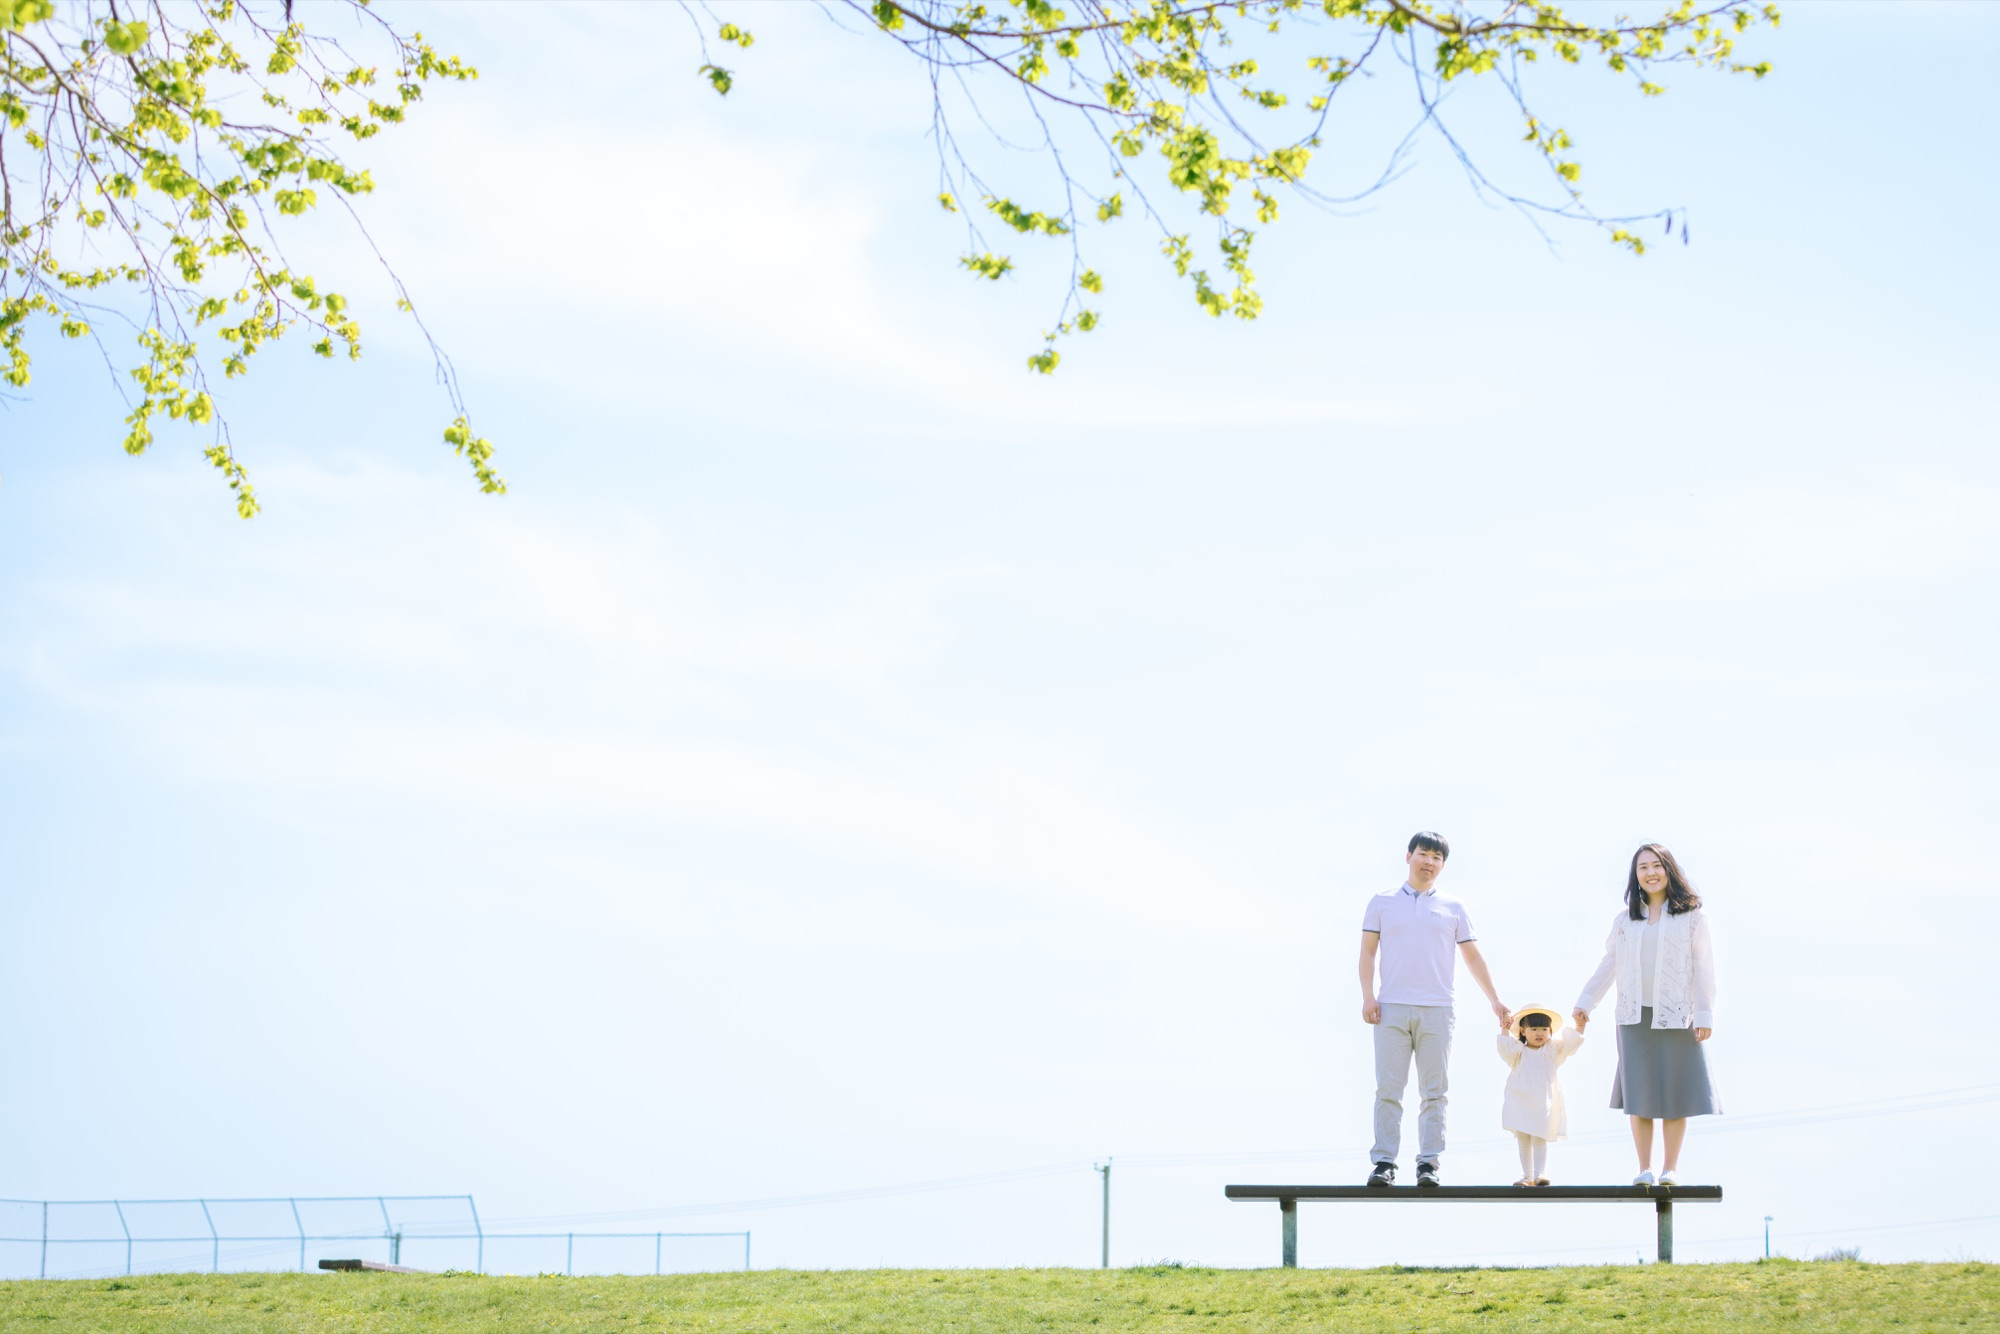
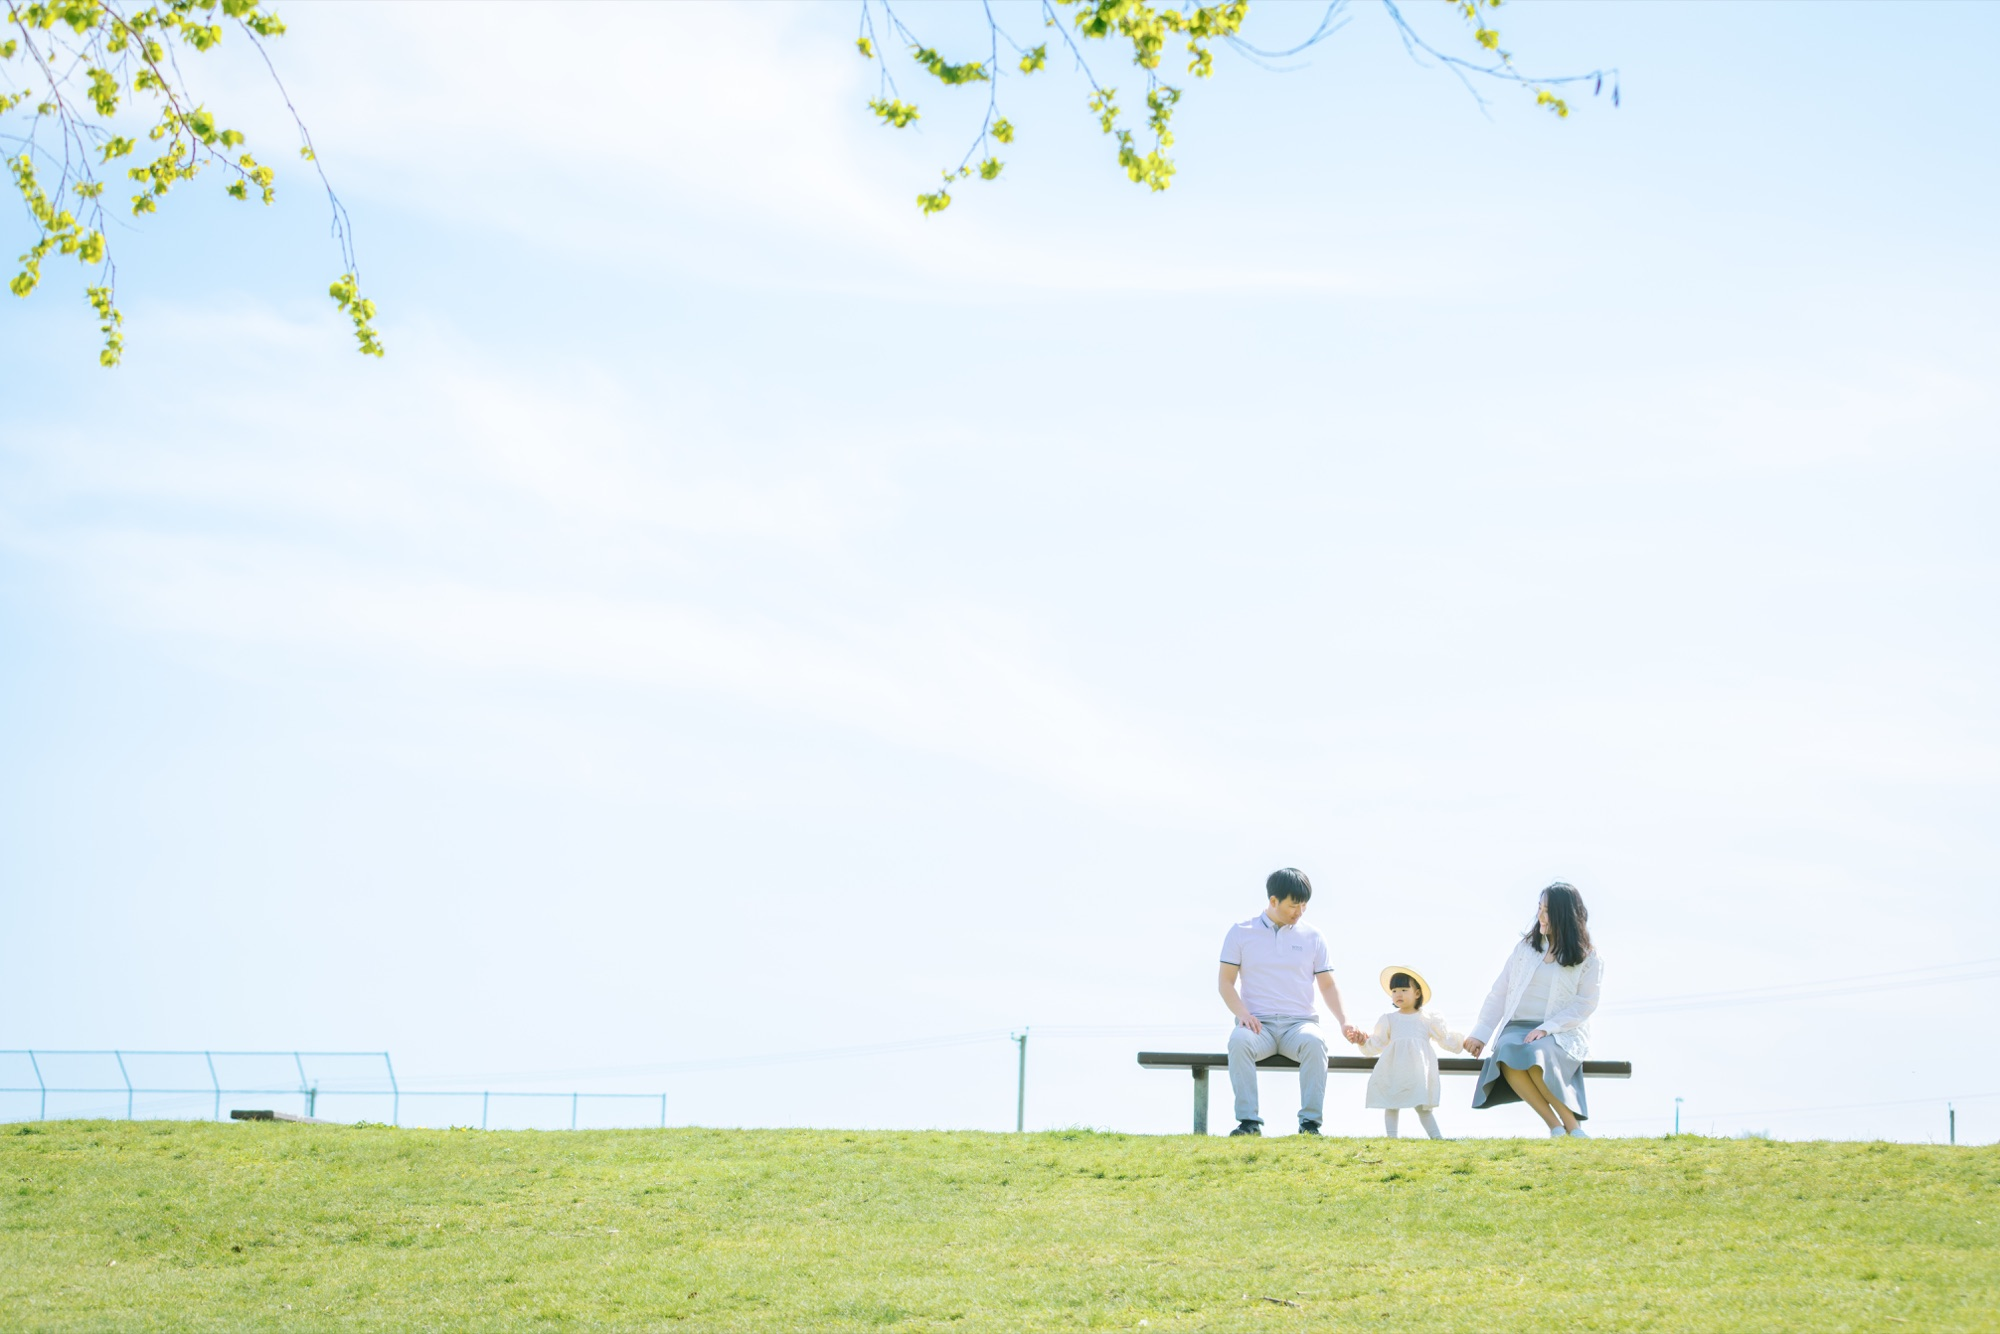
Use correct homepage background and enlarge profile

diff --git a/index.html b/index.html
@@ -37,7 +37,7 @@
       .hero-photo { position: absolute; inset: 0; width: 100%; height: 100%; object-fit: cover; }
       .hero-copy { position: absolute; z-index: 1; top: clamp(24px, 4vw, 52px); left: clamp(20px, 4vw, 48px); width: min(430px, calc(100% - 48px)); padding: clamp(20px, 2.5vw, 28px); background: rgba(251,253,247,.82); backdrop-filter: blur(5px); }
       .identity { display: flex; align-items: center; gap: 15px; margin-bottom: 22px; }
-      .profile { width: 70px; height: 70px; flex: 0 0 auto; border: 3px solid rgba(251,253,247,.95); border-radius: 50%; object-fit: cover; object-position: 50% 72%; box-shadow: 0 2px 10px rgba(45,66,63,.16); }
+      .profile { width: 140px; height: 140px; flex: 0 0 auto; border: 3px solid rgba(251,253,247,.95); border-radius: 50%; object-fit: cover; object-position: 50% 72%; box-shadow: 0 2px 10px rgba(45,66,63,.16); }
       .identity span { color: var(--soft-ink); font-size: .9rem; }
       .eyebrow { margin: 0 0 14px; color: var(--rose); font-size: .8rem; font-weight: 750; letter-spacing: .09em; text-transform: uppercase; }
       h1, h2, h3, p { margin-top: 0; }
@@ -89,6 +89,7 @@
         .hero { width: min(100% - 32px, 600px); min-height: 570px; aspect-ratio: auto; margin-top: 24px; margin-bottom: 54px; }
         .hero-photo { object-position: 62% center; }
         .hero-copy { top: 20px; left: 16px; width: calc(60% - 16px); min-width: 0; padding: 18px; background: rgba(251,253,247,.78); }
+        .identity { align-items: flex-start; flex-direction: column; gap: 10px; }
         main > section { padding: 58px 0; }
         .details { grid-template-columns: 1fr; gap: 22px; }
         .publication { grid-template-columns: 1fr; gap: 4px; }
@@ -113,7 +114,7 @@
 
     <main id="top">
       <div class="hero">
-        <img class="hero-photo" src="assets/background.jpg" alt="A family standing together beneath fresh green leaves and a bright spring sky" />
+        <img class="hero-photo" src="assets/background.jpg" alt="A family sitting together on a bench beneath fresh green leaves and a bright spring sky" />
         <div class="hero-copy">
           <div class="identity"><img class="profile" src="assets/profile-antelope-canyon.png" alt="Dandan Sang with her family in Antelope Canyon" /><span>PhD Student · Simon Fraser University</span></div>
           <p class="eyebrow">Computing Science · MARS Lab</p>
